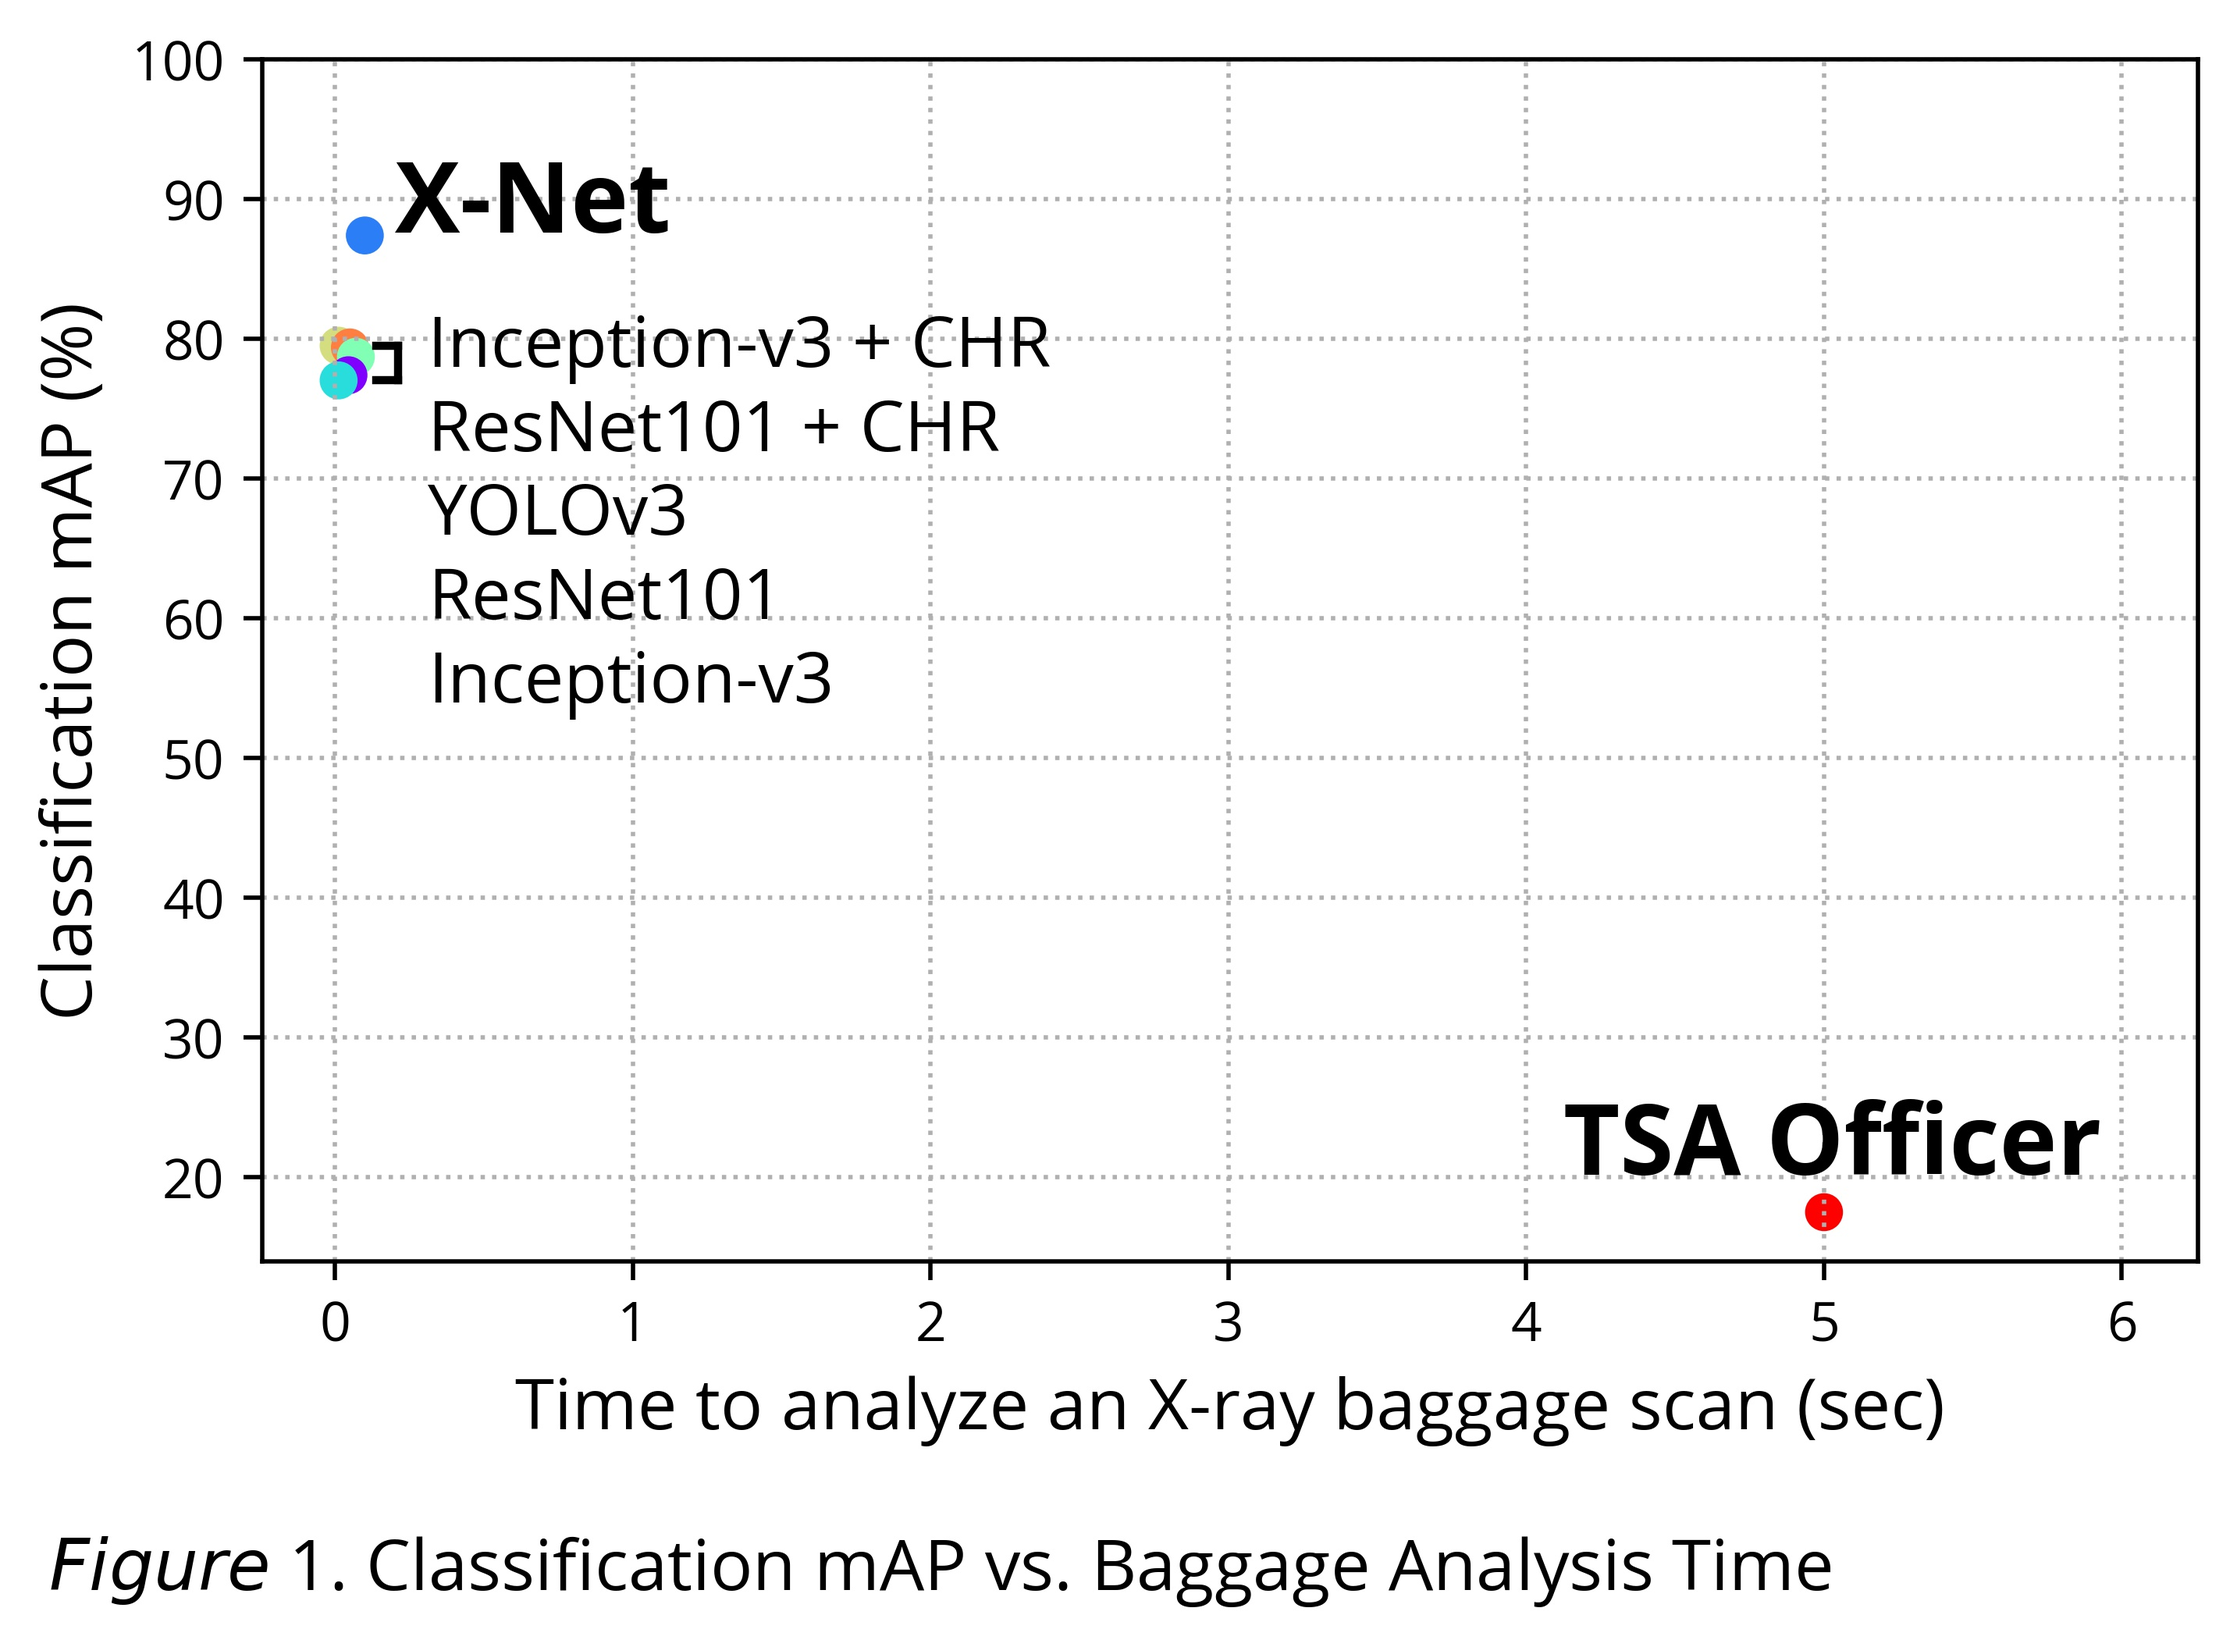
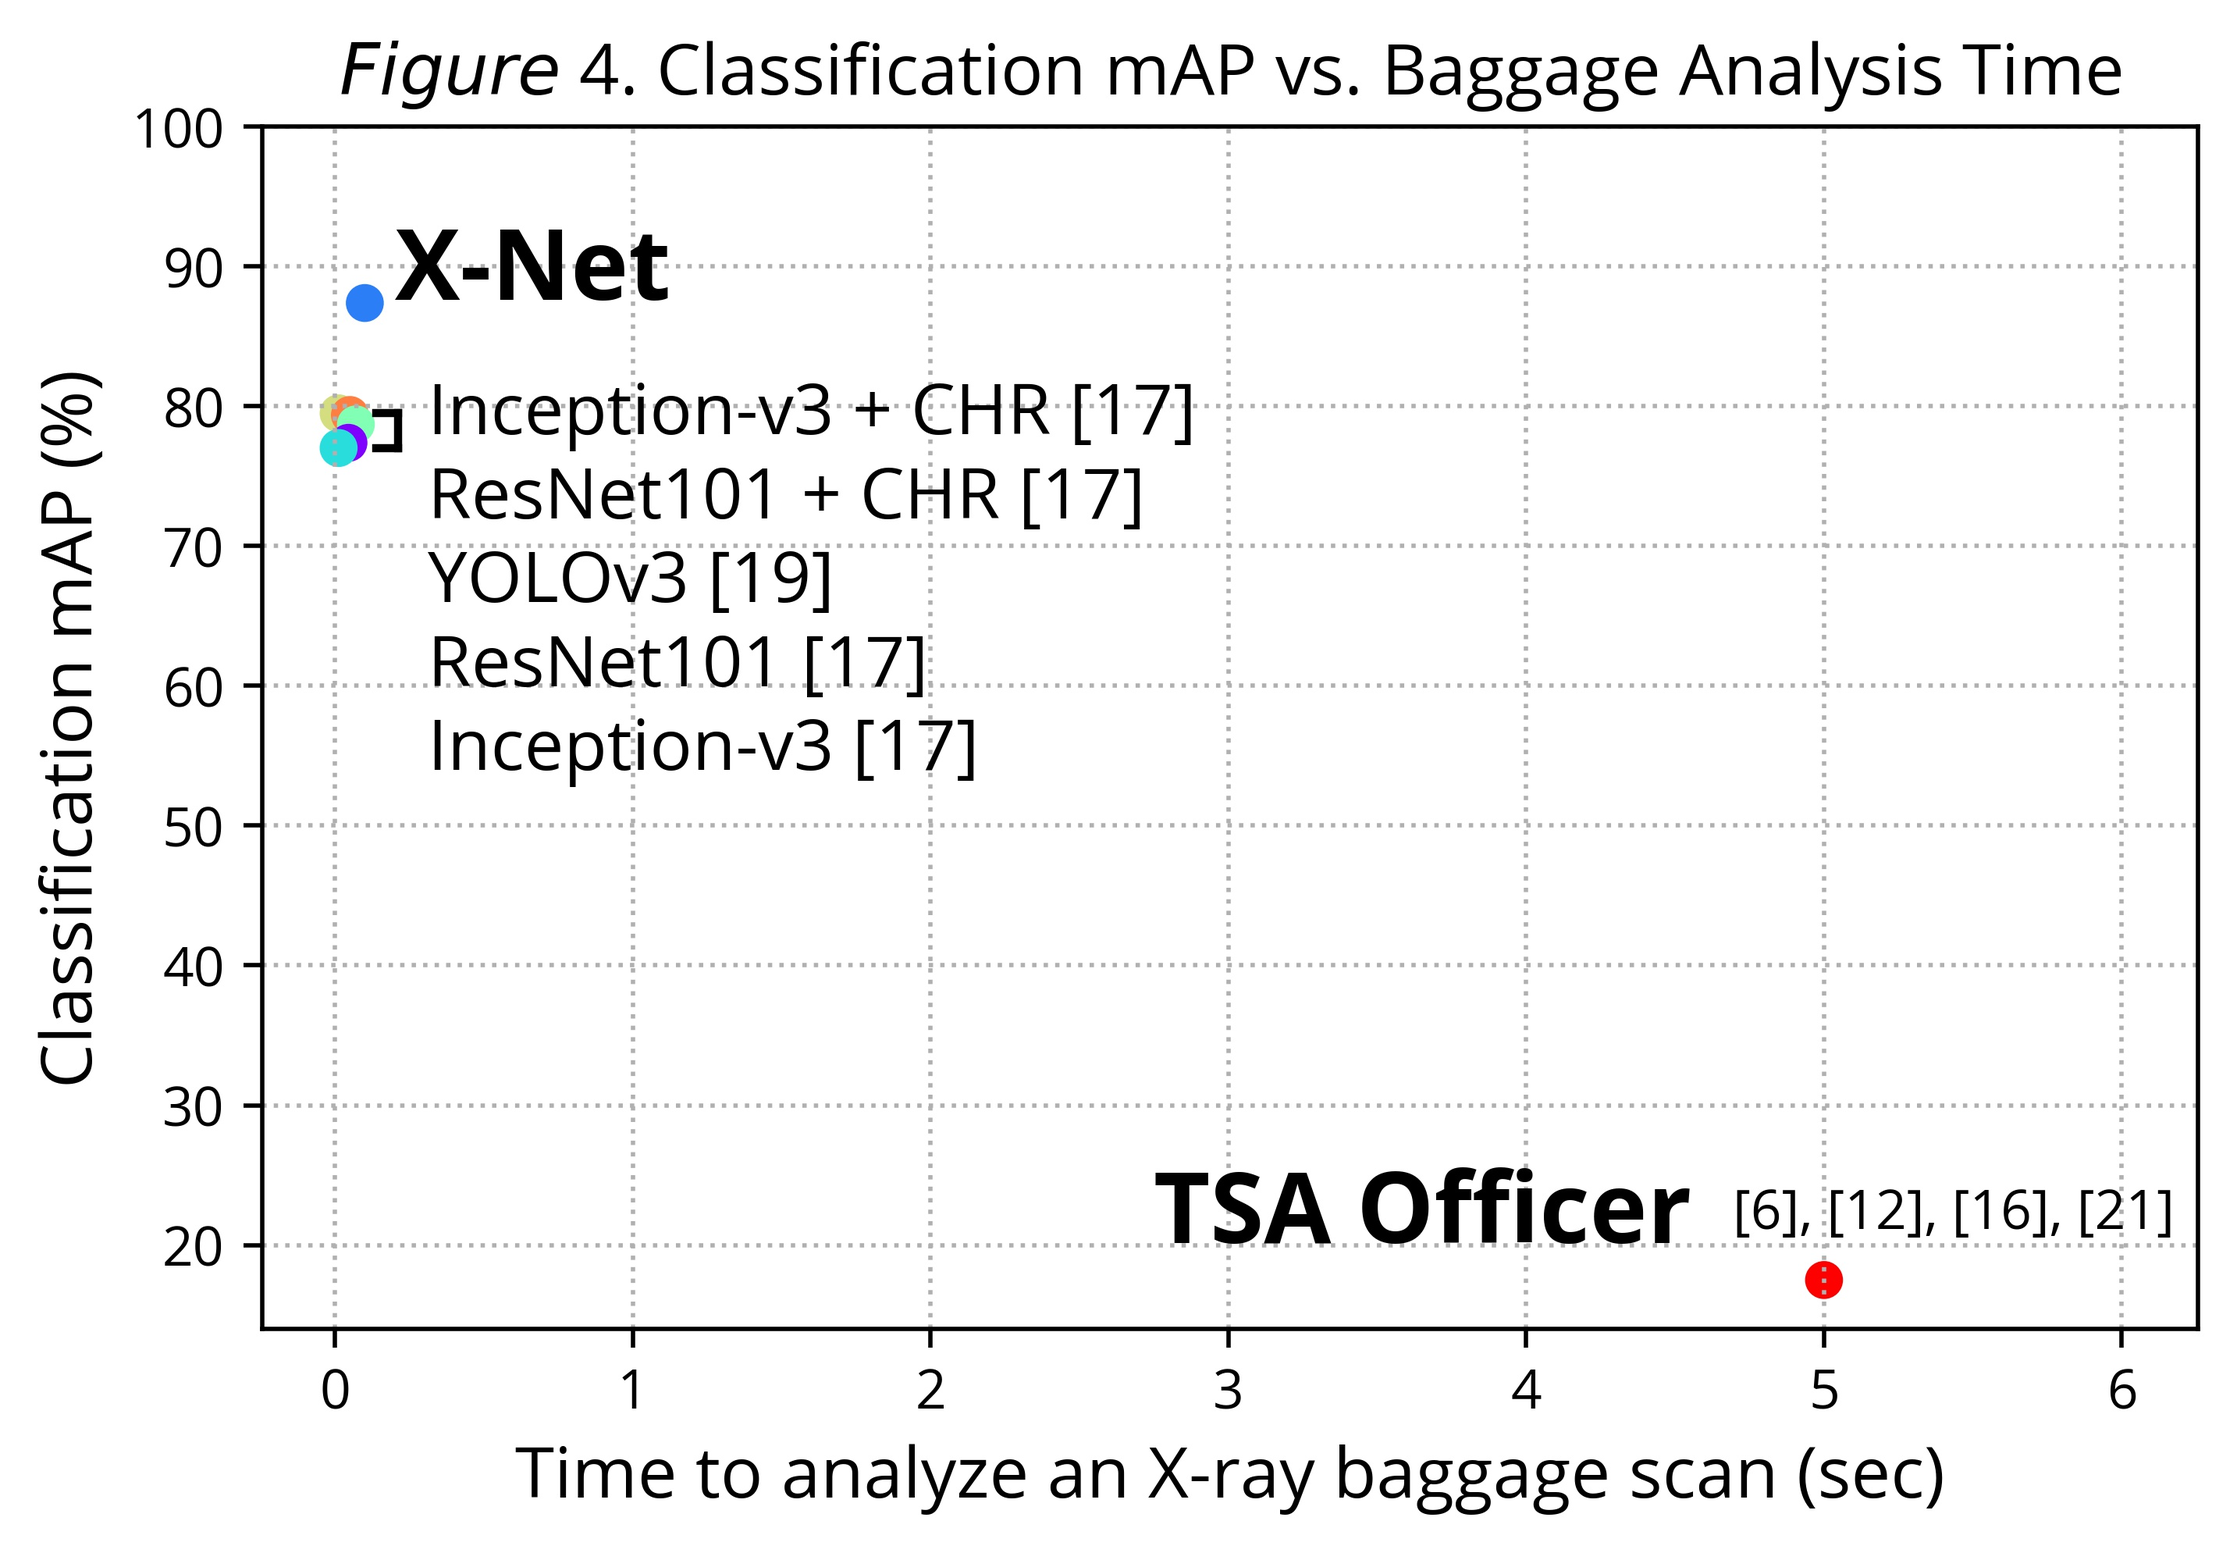
fixing citations in visuals/results

diff --git a/utils/visuals.py b/utils/visuals.py
@@ -128,7 +128,7 @@ def plot(results, mode, save_path=None, with_citations=False, font=None):
         adj = results.copy()
 
         adj.pop("X-Net")
-        adj.pop("TSA [5], [12], [16], [21]")
+        adj.pop("TSA [6], [12], [16], [21]")
 
         return adj
 
@@ -169,8 +169,8 @@ def plot(results, mode, save_path=None, with_citations=False, font=None):
             plt.annotate(model, (results[model][0] + 0.1, results[model][1] + 0.25), weight="bold", fontsize=18)
         elif "TSA" in model:
             if with_citations:
-                plt.annotate("TSA Officer", (results[model][0] - 1.75, results[model][1] + 2.7), weight="bold", fontsize=18)
-                plt.annotate(model.replace("TSA", " "), (results[model][0], results[model][1] + 2.9))
+                plt.annotate("TSA Officer", (results[model][0] - 2.25, results[model][1] + 2.7), weight="bold", fontsize=18)
+                plt.annotate(model.replace("TSA", " "), (results[model][0] - 0.4, results[model][1] + 3.7))
             else:
                 plt.annotate("TSA Officer", (results[model][0] - 0.875, results[model][1] + 2.7), weight="bold", fontsize=18)
 
@@ -190,13 +190,14 @@ def plot(results, mode, save_path=None, with_citations=False, font=None):
     # set up grid and plot
     plt.grid(which="major", linestyle=":")
 
-    apa_citation = "$\it{Figure}$ " + ("1" if mode == "classification" else "2")
+    apa_citation = "$\it{Figure}$ " + ("4" if mode == "classification" else "5")
 
     plt.title("{}. {} mAP vs. Baggage Analysis Time".format(apa_citation, mode.title()), fontsize=13)
     plt.xlabel("Time to analyze an X-ray baggage scan (sec)", fontsize=13)
     plt.ylabel("{} mAP (%)".format(mode.title()), fontsize=13)
 
-    plt.gca().title.set_position([.35, -0.3])#1.03])
+    if not with_citations:
+        plt.gca().title.set_position([.35, -0.3])#1.03])
 
     x1, x2, y1, y2 = plt.axis()
     plt.axis((x1, x2 + 1., y1, 100))
@@ -216,5 +217,5 @@ if __name__ == "__main__":
     classification_results = parse_model_results("../results/text/classification_results.json")
     localization_results = parse_model_results("../results/text/localization_results.json")
 
-    plot(classification_results, mode="classification", save_path="../results/plots/classification_map.jpg", font="Open Sans")
-    plot(localization_results, mode="localization", save_path="../results/plots/localization_map.jpg", font="Open Sans")
+    plot(classification_results, mode="classification", save_path="../results/plots/classification_map.jpg", font="Open Sans", with_citations=True)
+    plot(localization_results, mode="localization", save_path="../results/plots/localization_map.jpg", font="Open Sans", with_citations=True)
